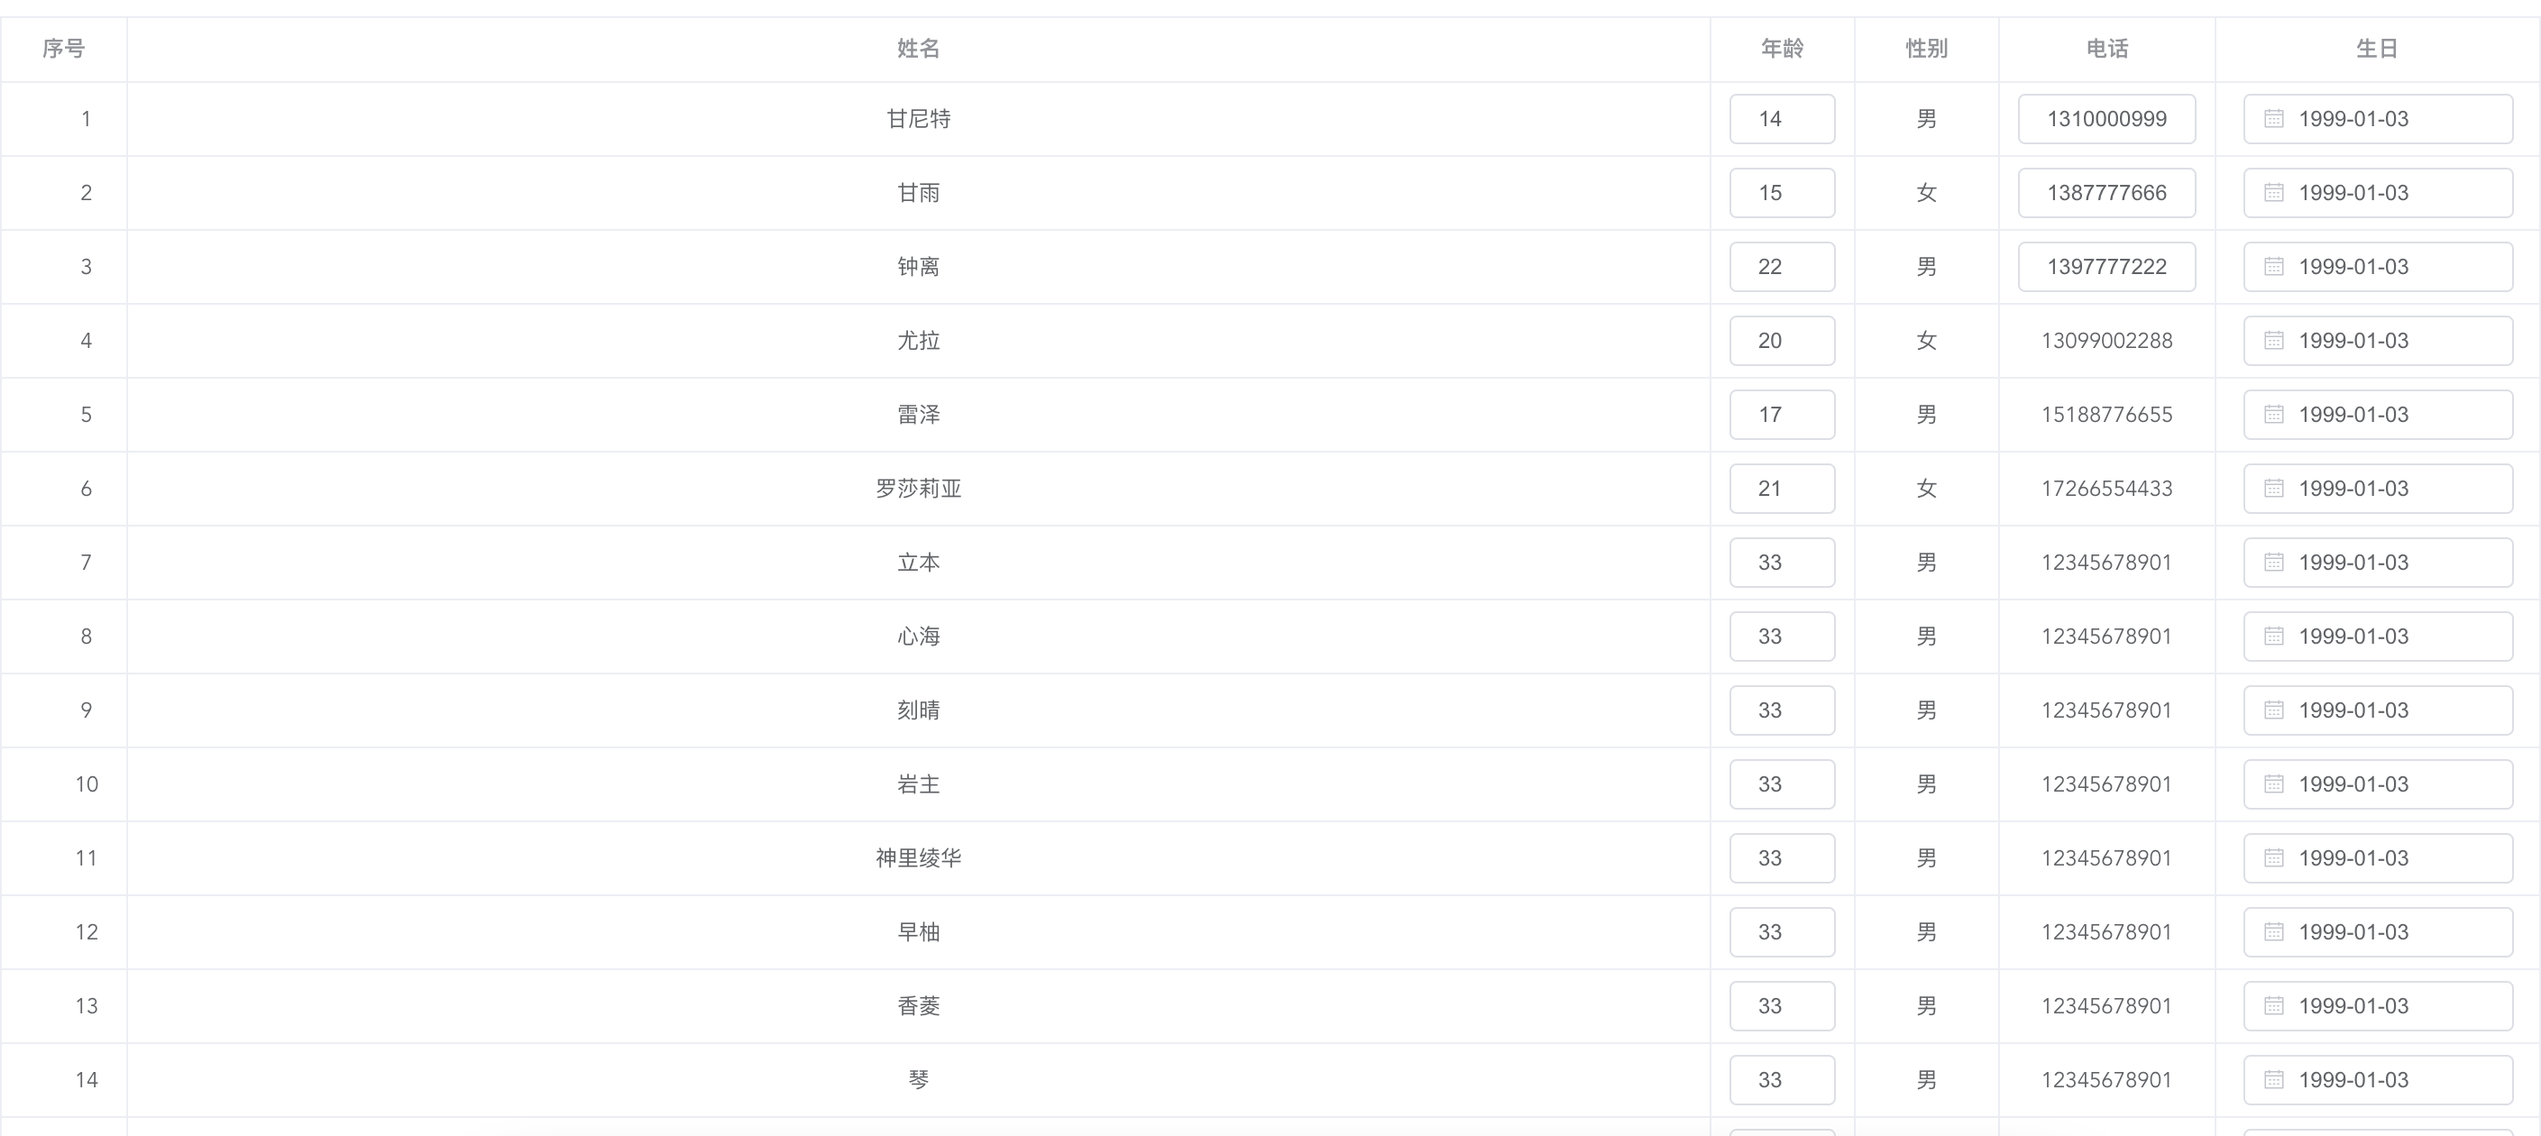
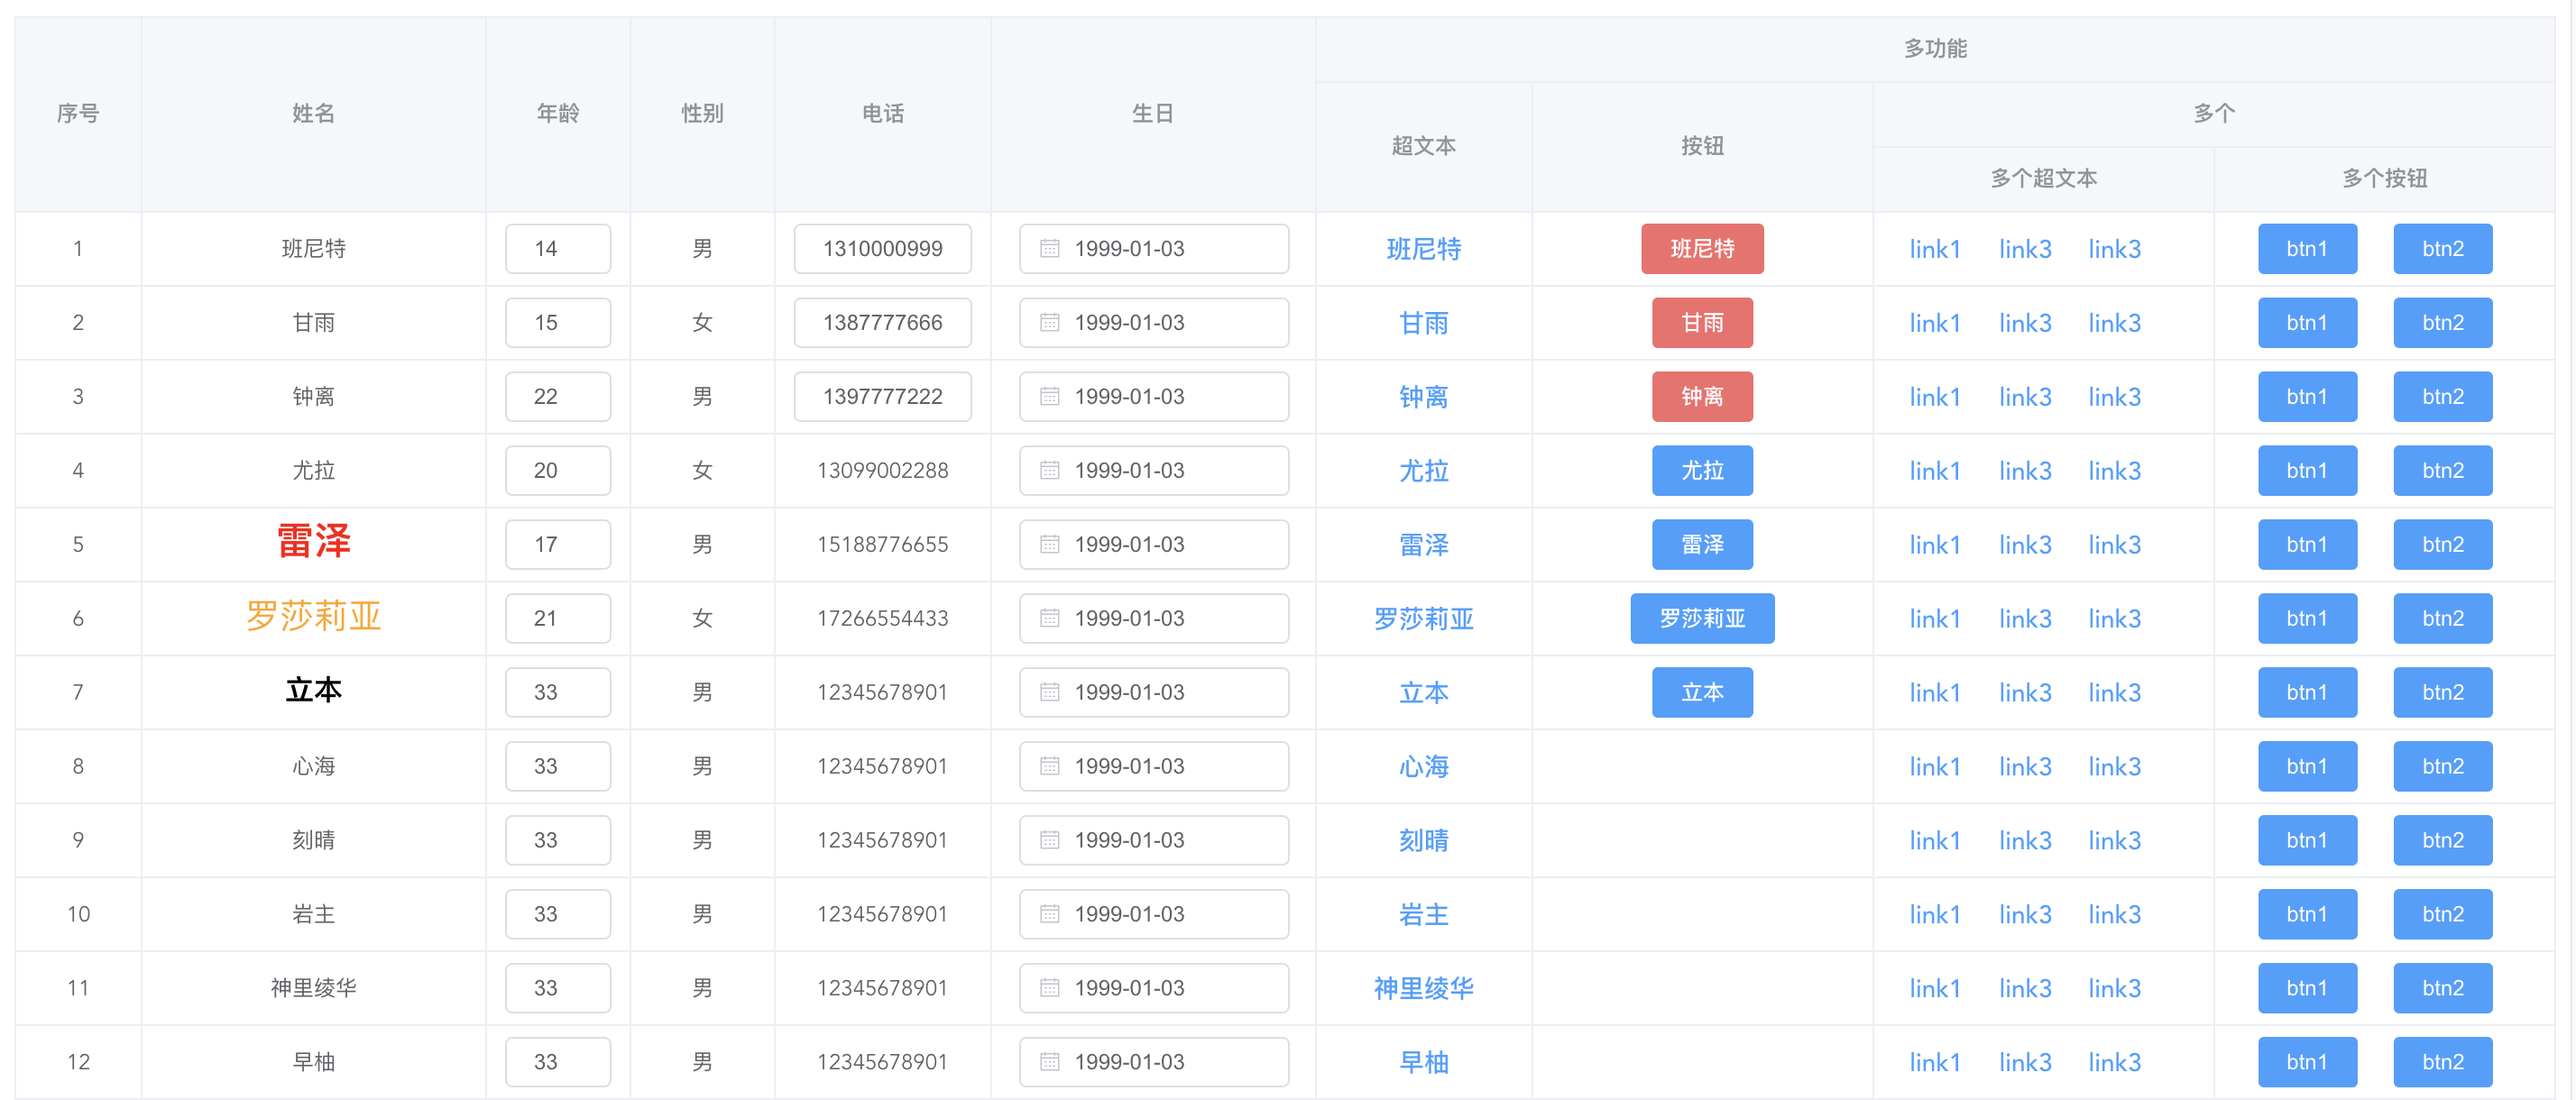
补充说明

diff --git a/examples/App.vue b/examples/App.vue
@@ -18,15 +18,29 @@ export default {
   data() {
     return {
       // options: [
-      //   { l: '序号', order: true, width: 70 },
+      //   { l: '序号', order: true, width: 70, align: 'center'  },
       //   { l: '姓名', p: 'name' },
       //   { l: '年龄', p: 'age', e_n: true },
       //   { l: '性别', p: 'sex' },
       //   { l: '电话', p: 'tel' },
       // ],
       options: [
-        { l: '序号', order: true, width: 70 },
-        { l: '姓名', p: 'name' },
+        { l: '序号', order: true, width: 70, align: 'center' },
+        {
+          l: '姓名',
+          p: ({ row }) => {
+            return row.name
+          },
+          style: ({ row }) => {
+            if (['雷泽'].includes(row.name)) {
+              return { color: 'red', 'font-weight': 600, 'font-size': '21px' }
+            } else if (['立本'].includes(row.name)) {
+              return { color: 'black', 'font-weight': 600, 'font-size': '16px' }
+            } else if (['罗莎莉亚'].includes(row.name)) {
+              return { color: 'orange', 'font-size': '19px' }
+            }
+          },
+        },
         { l: '年龄', p: 'age', e_n: true, width: 80 },
         { l: '性别', p: 'sex', width: 80 },
         {

diff --git a/README.md b/README.md
@@ -156,7 +156,7 @@ options: [
 ```
 根据以上options效果如下：
 
-![效果图2](https://github.com/SwMango/vue-sw-formlist/blob/master/public/images/ex3.png?raw=true)
+![效果图2](https://github.com/SwMango/vue-sw-formlist/blob/master/public/images/ex2.png?raw=true)
 
 
 ======================================
